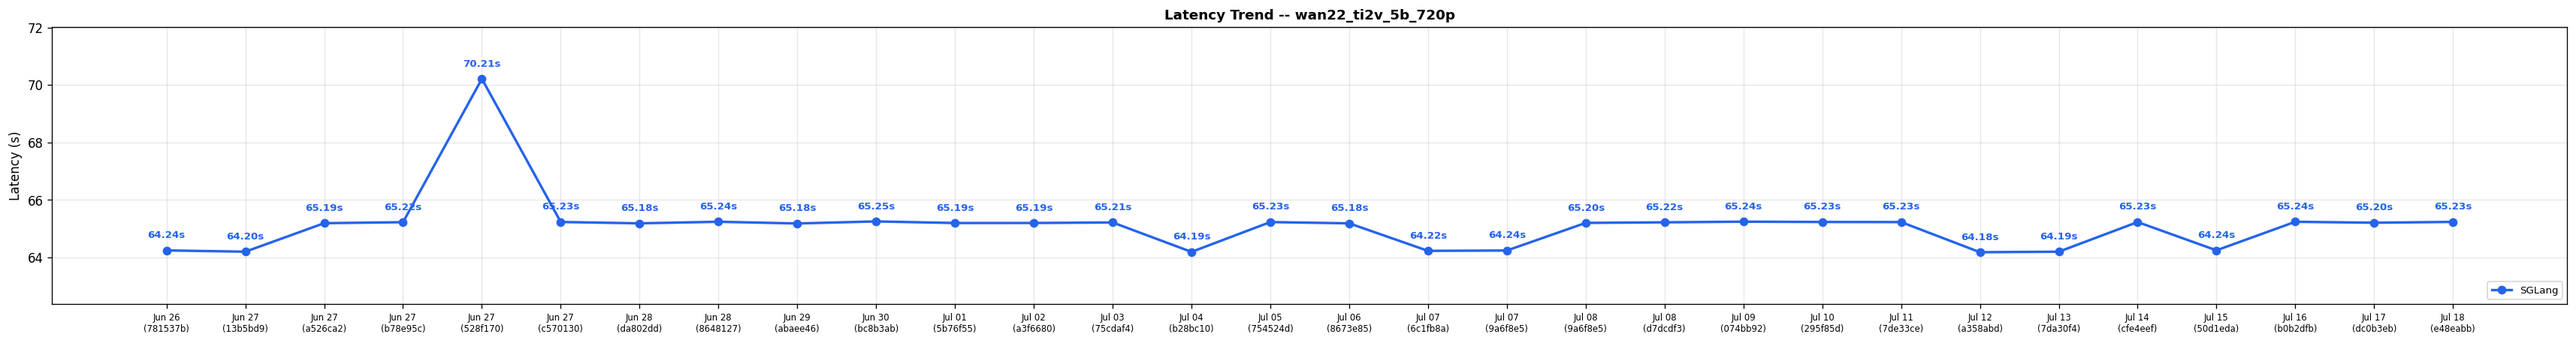
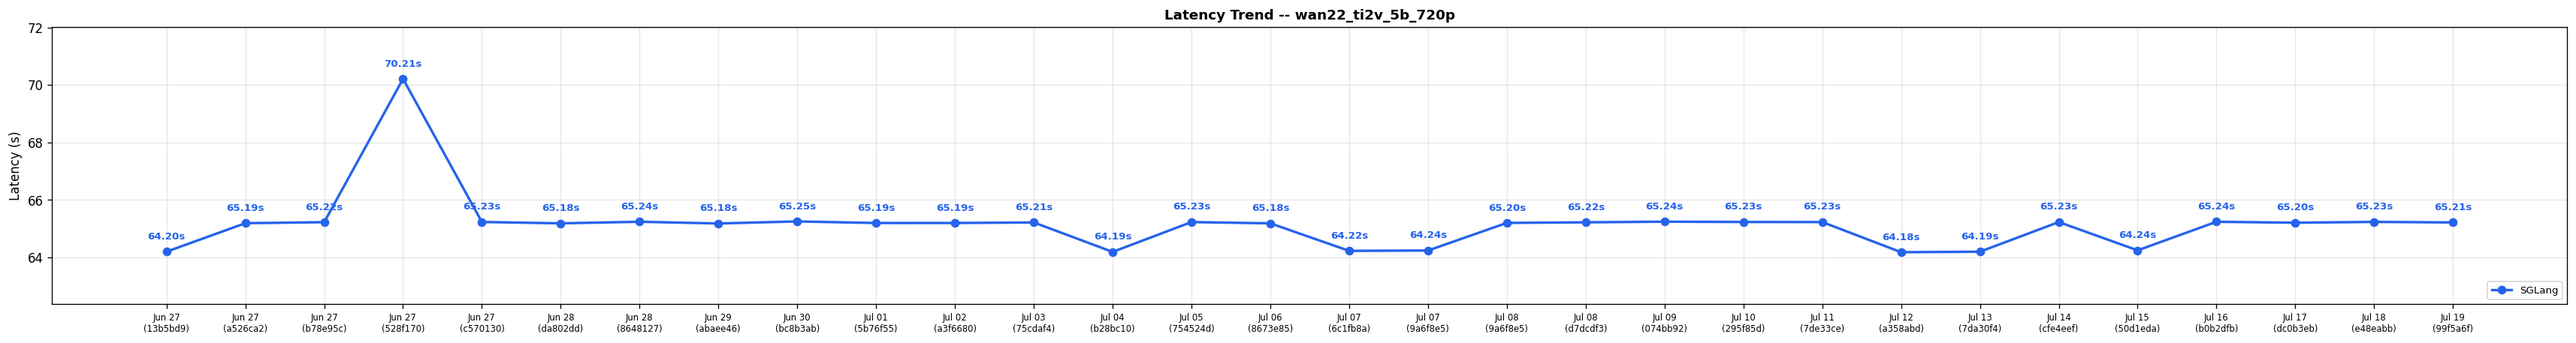
Diffusion comparison results for run 29667472422 (#721)

diff --git a/diffusion-comparisons/dashboard.md b/diffusion-comparisons/dashboard.md
@@ -1,29 +1,22 @@
 # SGLang-Diffusion Nightly Performance Dashboard
 
-*Generated: Jul 18 | Commit: `e48eabb`*
-
-> [!WARNING]
-> **Performance Regression Detected**
->
-> - **qwen_image_2512_t2i_1024** (sglang): 9.02s -> 10.86s (+20.4%)
-> - **ltx2.3_twostage_ti2v_2gpus** (sglang): 13.05s -> 16.08s (+23.2%)
-
+*Generated: Jul 19 | Commit: `99f5a6f`*
 
 ## SGLang-Diffusion Performance
 
 | Model | Risk | sglang (s) |
 |-------|------|---------|
-| FLUX.1-dev | ✅ | **4.86** |
-| FLUX.2-dev | ✅ | **14.41** |
-| Qwen-Image-2512 | ⚠ | **10.86** |
+| FLUX.1-dev | ✅ | **4.85** |
+| FLUX.2-dev | ✅ | **14.43** |
+| Qwen-Image-2512 | ⚠ | **10.96** |
 | Qwen-Image-Edit-2511 | ✅ | **15.41** |
-| Z-Image-Turbo | ✅ | **0.83** |
+| Z-Image-Turbo | ✅ | **0.86** |
 | Wan2.2-T2V-A14B-Diffusers | ✅ | **210.72** |
-| Wan2.2-TI2V-5B-Diffusers | ✅ | **65.23** |
-| LTX-2.3 | ⚠ | **16.08** |
-| ideogram-4-fp8 | ❌ | N/A |
-| Cosmos3-Super | ✅ | **115.29** |
-| Wan2.2-I2V-A14B-Diffusers | ✅ | **203.68** |
+| Wan2.2-TI2V-5B-Diffusers | ✅ | **65.21** |
+| LTX-2.3 | ⚠ | **16.07** |
+| ideogram-4-fp8 | ✅ | **5.35** |
+| Cosmos3-Super | ✅ | **115.39** |
+| Wan2.2-I2V-A14B-Diffusers | ✅ | **203.71** |
 
 ### Latency Trend: flux1_dev_t2i_1024
 
@@ -84,6 +77,7 @@
 
 | Date | Commit | flux1_dev_t2i_1024 (s) | flux2_dev_t2i_1024 (s) | qwen_image_2512_t2i_1024 (s) | qwen_image_edit_2511 (s) | zimage_turbo_t2i_1024 (s) | wan22_t2v_a14b_720p (s) | wan22_ti2v_5b_720p (s) | ltx2.3_twostage_ti2v_2gpus (s) | ideogram4_fp8_t2i_2gpu (s) | cosmos3_super_t2v_2gpu (s) | wan22_i2v_a14b_720p (s) | Trend |
 |------|--------|---------|---------|---------|---------|---------|---------|---------|---------|---------|---------|---------|-------|
+| Jul 19 | `99f5a6f` | 4.85 | 14.43 | 10.96 | 15.41 | 0.86 | 210.72 | 65.21 | 16.07 | 5.35 | 115.39 | 203.71 | :left_right_arrow:  :left_right_arrow:  :left_right_arrow:  :left_right_arrow:  :arrow_up:  :left_right_arrow:  :left_right_arrow:  :left_right_arrow:   :left_right_arrow:  :left_right_arrow: |
 | Jul 18 | `e48eabb` | 4.86 | 14.41 | 10.86 | 15.41 | 0.83 | 210.72 | 65.23 | 16.08 | N/A | 115.29 | 203.68 | :left_right_arrow:  :left_right_arrow:  :arrow_up:  :left_right_arrow:  :left_right_arrow:  :left_right_arrow:  :left_right_arrow:  :arrow_up:   :left_right_arrow:  :left_right_arrow: |
 | Jul 17 | `dc0b3eb` | 4.85 | 14.48 | 9.02 | 15.41 | 0.83 | 210.69 | 65.20 | 13.05 | 5.31 | 115.32 | 204.58 | :left_right_arrow:  :left_right_arrow:  :arrow_down:  :left_right_arrow:  :left_right_arrow:  :left_right_arrow:  :left_right_arrow:  :arrow_down:  :left_right_arrow:  :left_right_arrow:  :left_right_arrow: |
 | Jul 16 | `b0b2dfb` | 4.87 | 14.41 | 10.80 | 15.41 | 0.83 | 210.62 | 65.24 | 16.06 | 5.35 | 115.35 | 204.68 | :left_right_arrow:  :left_right_arrow:  :arrow_up:  :left_right_arrow:  :left_right_arrow:  :left_right_arrow:  :left_right_arrow:  :arrow_up:  :left_right_arrow:  :left_right_arrow:  :left_right_arrow: |
@@ -112,16 +106,14 @@
 | Jun 27 | `528f170` | 10.97 | 24.21 | 26.21 | 36.95 | 13.46 | 221.57 | 70.21 | 40.16 | 11.50 | 143.65 | 211.72 | :arrow_up:  :arrow_up:  :arrow_up:  :arrow_up:  :arrow_up:  :arrow_up:  :arrow_up:  :arrow_up:  :arrow_up:  :arrow_up:  :arrow_up: |
 | Jun 27 | `b78e95c` | 4.68 | 14.31 | 12.81 | 23.77 | 0.65 | 209.17 | 65.22 | 16.06 | 5.19 | 113.80 | 204.59 |      :left_right_arrow:  :left_right_arrow:  :arrow_up:   :left_right_arrow:  :left_right_arrow: |
 | Jun 27 | `a526ca2` | N/A | N/A | N/A | N/A | N/A | 209.33 | 65.19 | 15.05 | N/A | 113.74 | 204.61 |      :left_right_arrow:  :left_right_arrow:  :left_right_arrow:    |
-| Jun 27 | `13b5bd9` | 4.68 | 14.31 | 12.79 | 23.65 | 0.65 | 209.32 | 64.20 | 15.05 | N/A | N/A | N/A | :left_right_arrow:  :arrow_down:  :left_right_arrow:  :left_right_arrow:  :arrow_down:  :left_right_arrow:  :left_right_arrow:  :arrow_up:    |
-| Jun 26 | `781537b` | 4.63 | 15.76 | 12.69 | 23.60 | 0.82 | 208.96 | 64.24 | 14.05 | N/A | N/A | 205.62 | -- |
+| Jun 27 | `13b5bd9` | 4.68 | 14.31 | 12.79 | 23.65 | 0.65 | 209.32 | 64.20 | 15.05 | N/A | N/A | N/A | -- |
 
 > [!CAUTION]
 > **Action Required — Performance Alert**
 >
 > The following cases need attention:
-> - qwen_image_2512_t2i_1024: SGLang regression +13.8% vs 3-run avg (10.86s vs 9.54s)
-> - ltx2.3_twostage_ti2v_2gpus: SGLang regression +14.4% vs 3-run avg (16.08s vs 14.06s)
-> - ideogram4_fp8_t2i_2gpu: SGLang latency is N/A (broken)
+> - qwen_image_2512_t2i_1024: SGLang regression +7.1% vs 3-run avg (10.96s vs 10.23s)
+> - ltx2.3_twostage_ti2v_2gpus: SGLang regression +6.6% vs 3-run avg (16.07s vs 15.07s)
 
 
 ---
